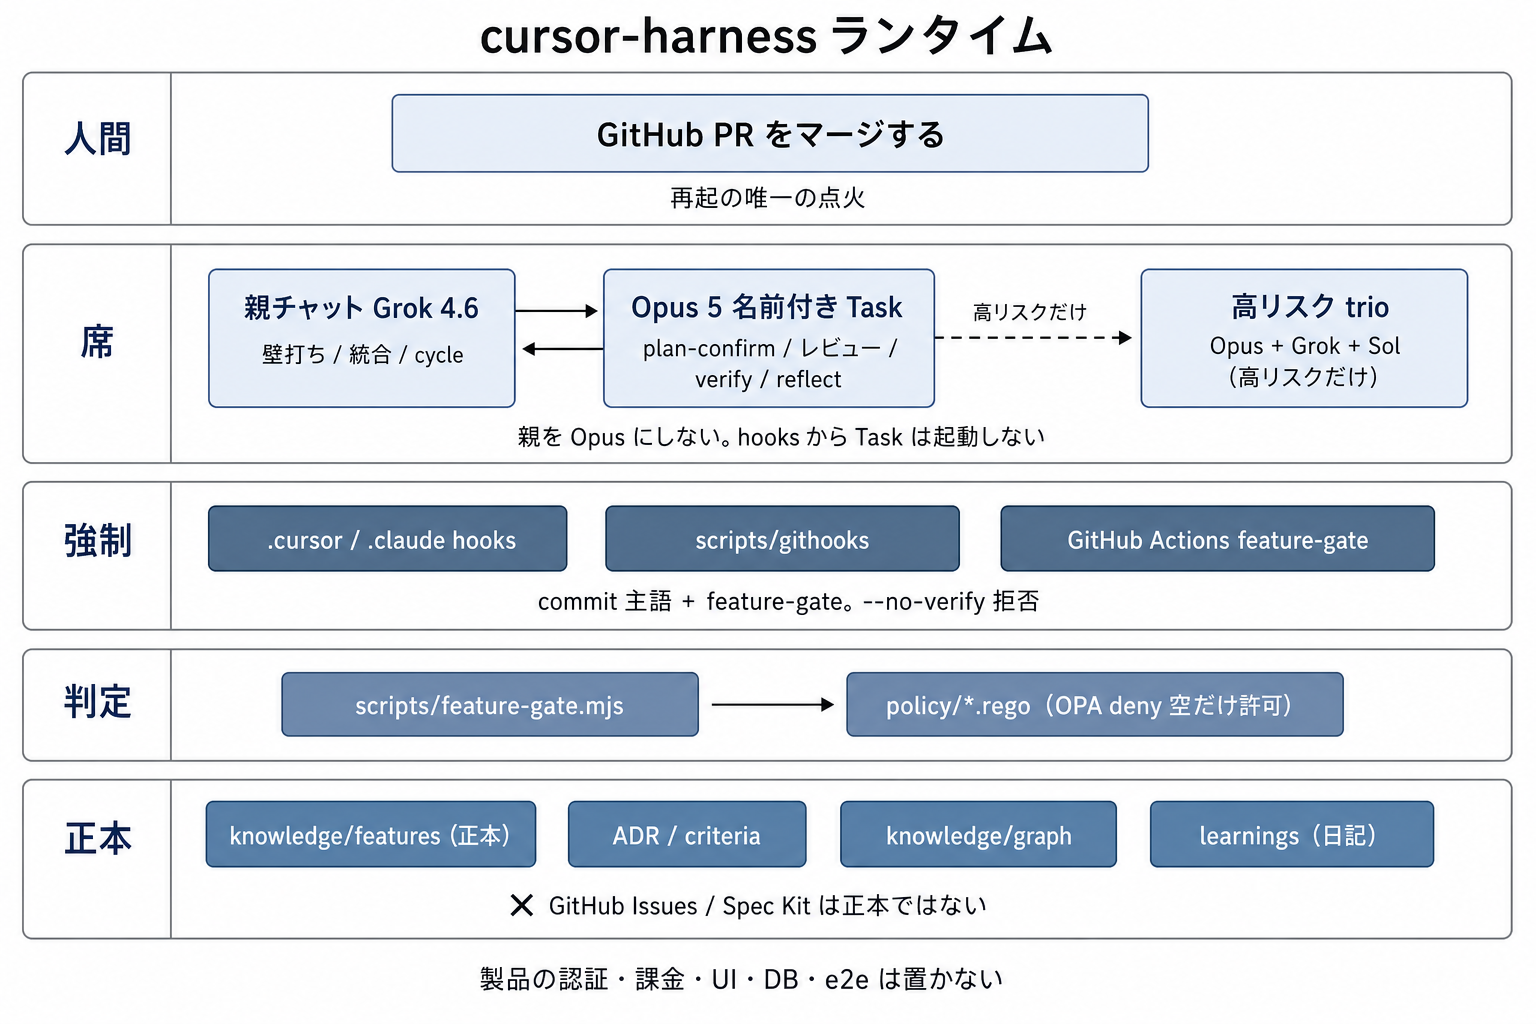
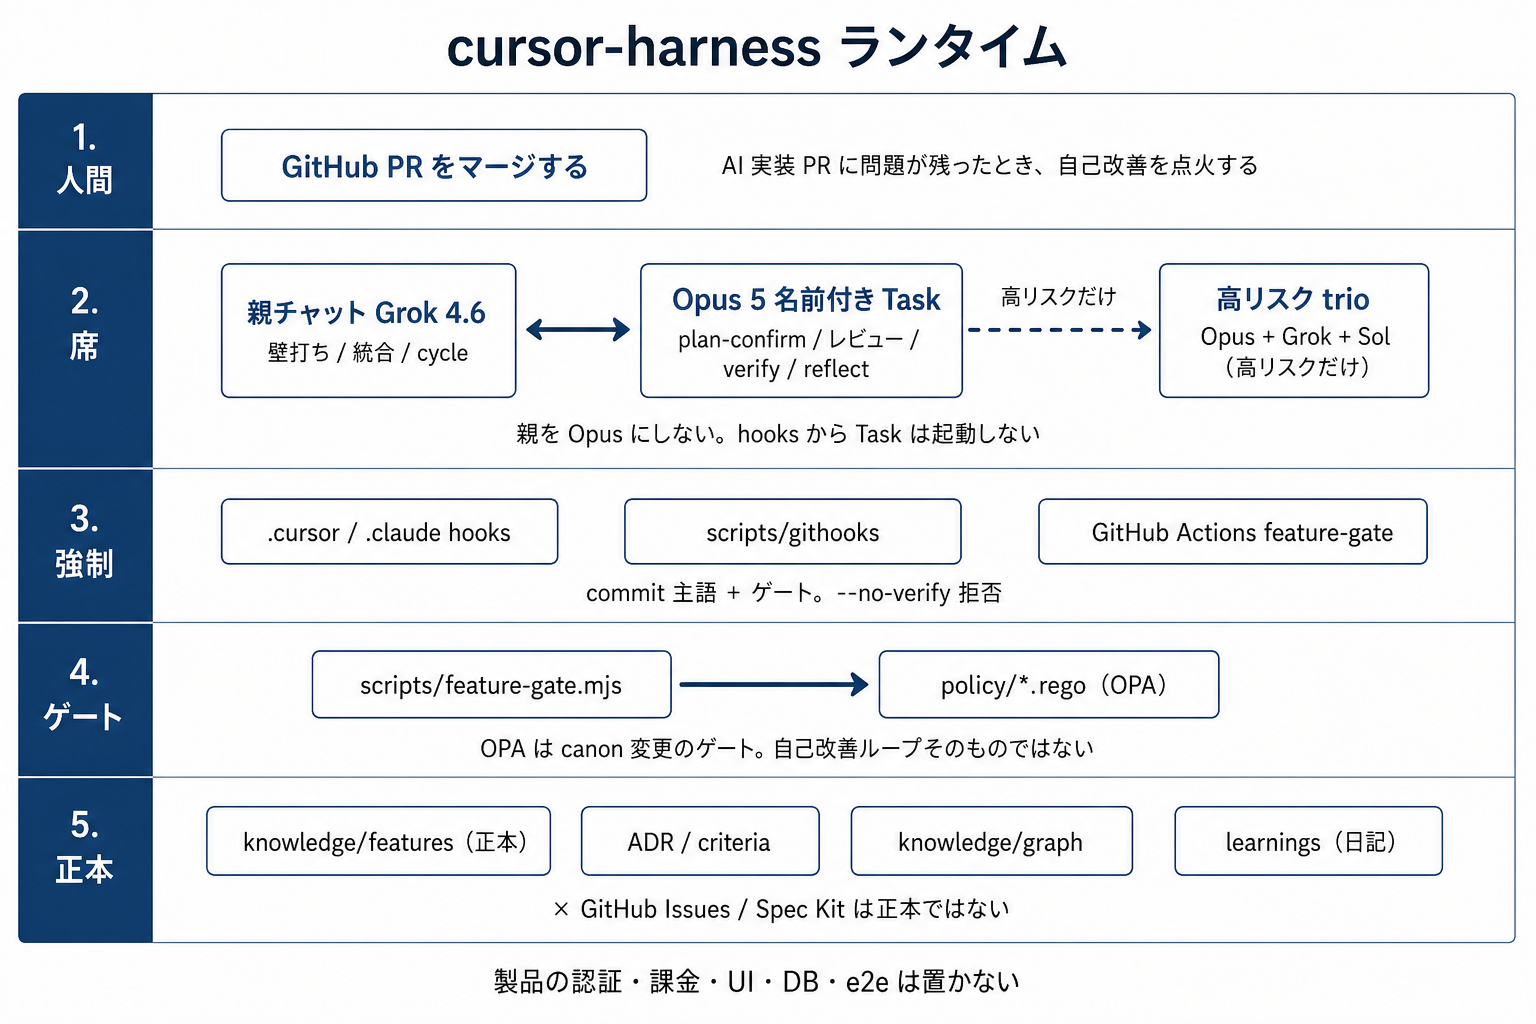
docs: 自己改善ループを主にし、入場をゲートに言い換える。

diff --git a/README.md b/README.md
@@ -6,10 +6,10 @@
 
 - 席: 親 Grok 4.6 / Opus 5 ゲート / Sol は**高リスク3体多数決のみ**
 - 正本: [`knowledge/features/F-NNNN-*.yaml`](knowledge/features/README.md)。GitHub Issues / Spec Kit は正本にしない（[ADR 0033](knowledge/decisions/0033-harness-api-budget-routing.md)）
-- 入場: OPA `node scripts/feature-gate.mjs`
+- ゲート: OPA `node scripts/feature-gate.mjs`（自己改善ループそのものではない）
 - 出生規則: Feature は `proposed` で起票する。**同一 PR で `admitted` / `approved` にしない**（[ADR 0038](knowledge/decisions/0038-feature-canon-opa-grow.md)）
 - 管理: skill の使用/省略を `knowledge/graph/` に書き、ノード / 辺 / 状態の3指標で計る
-- 再起: 人間が PR をマージしたあと、省略が残っていれば次 Feature の下書き PR を開く（エージェントは自動起動しない）。戻る先は Feature 起票であり、clone からやり直さない
+- 再起的自己改善: AI 実装 PR に省略・失敗・差し戻しが残ったとき、人間がマージしたあと次 Feature の下書き PR を開く（エージェントは自動起動しない）。戻る先は Feature 起票であり、clone からやり直さない
 - パッケージ: pnpm（[ADR 0041](knowledge/decisions/0041-pnpm-package-manager.md)）
 - commit: hook 必須。主語は `feat:` / `fix:` / `docs:` 等 + 日本語（[ADR 0042](knowledge/decisions/0042-always-on-precommit-ja-conventional.md)）
 
@@ -29,19 +29,19 @@ node scripts/install-git-hooks.mjs
 
 ## アーキテクチャ
 
-手順の流れ図ではなく、層と正本の境界を示す。元ファイルは [`docs/architecture/`](docs/architecture/)。
+層と、AI 実装 PR の問題から自己改善が回る経路を示す。元ファイルは [`docs/architecture/`](docs/architecture/)。
 
 ### ランタイム
 
-人間が PR をマージすることだけが再起の点火。席の下に hook / CI、その下に feature-gate と OPA、最下が正本。製品の認証・課金・UI は置かない。
+席と強制の層。OPA は canon 変更のゲートであり、自己改善ループそのものではない。
 
 ![cursor-harness ランタイム](docs/architecture/harness-runtime-architecture.png)
 
-### 正本・入場・有界再起
+### 再起的自己改善
 
-Feature YAML が正本。GitHub PR は鏡。apply は deny が空のときだけ。再起は人間マージ後の下書き PR までで、エージェントは自動起動しない。
+AI 実装 PR に省略・失敗・差し戻しが残ったときだけ回る。人間のマージが点火。cycle-after-merge は下書き PR までで、エージェントは自動起動しない。OPA は横のゲート。
 
-![正本・入場・有界再起](docs/architecture/harness-canon-cycle-architecture.png)
+![再起的自己改善](docs/architecture/harness-self-improve-architecture.png)
 
 ## 構成
 
@@ -49,7 +49,7 @@ Feature YAML が正本。GitHub PR は鏡。apply は deny が空のときだけ
 .claude/          エージェント / skill / hook
 .cursor/          Cursor の hook
 knowledge/        ADR / 判断基準 / Feature / グラフ / 内省
-policy/           OPA（入場と cycle）
+policy/           OPA（ゲートと cycle）
 scripts/          feature-gate / cycle-* / githooks / commit-msg
 ```
 
